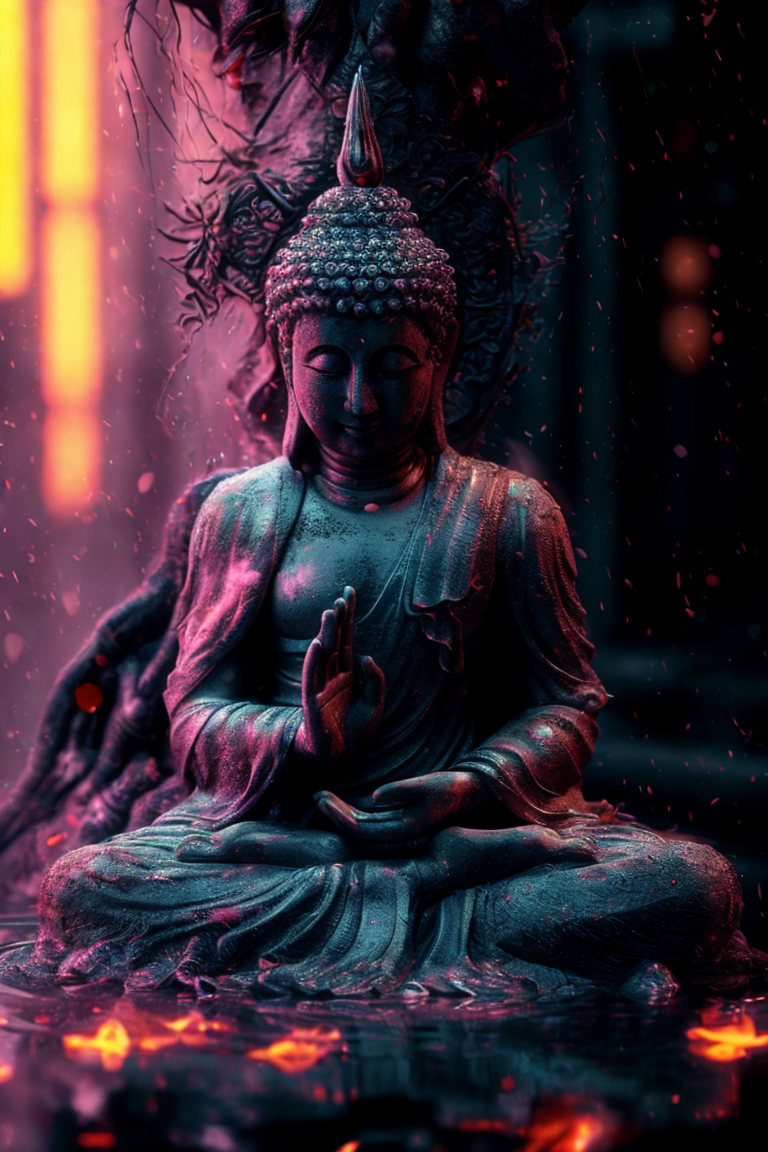
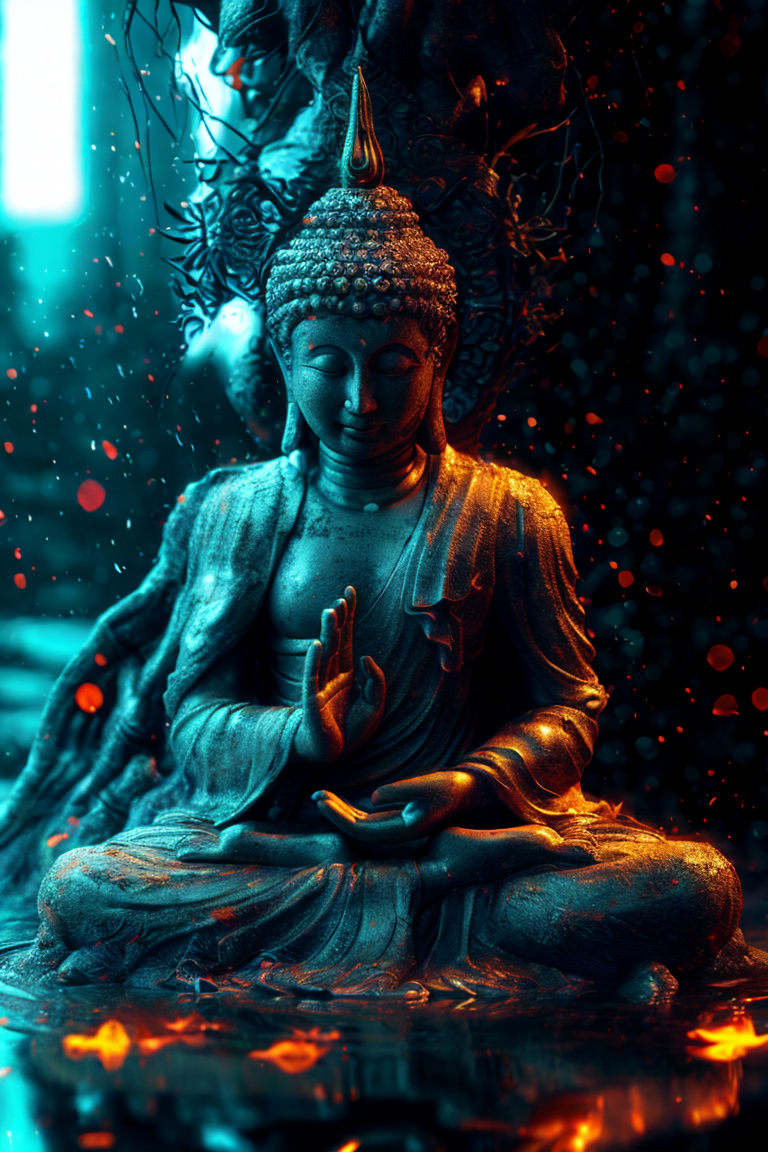
i

diff --git a/db_examples.py b/db_examples.py
@@ -95,7 +95,7 @@ foreground_conditioned_examples = [
         "Left Light",
         512,
         768,
-        12345,
+        8888,
         "imgs/o11.png",
     ],
     [
